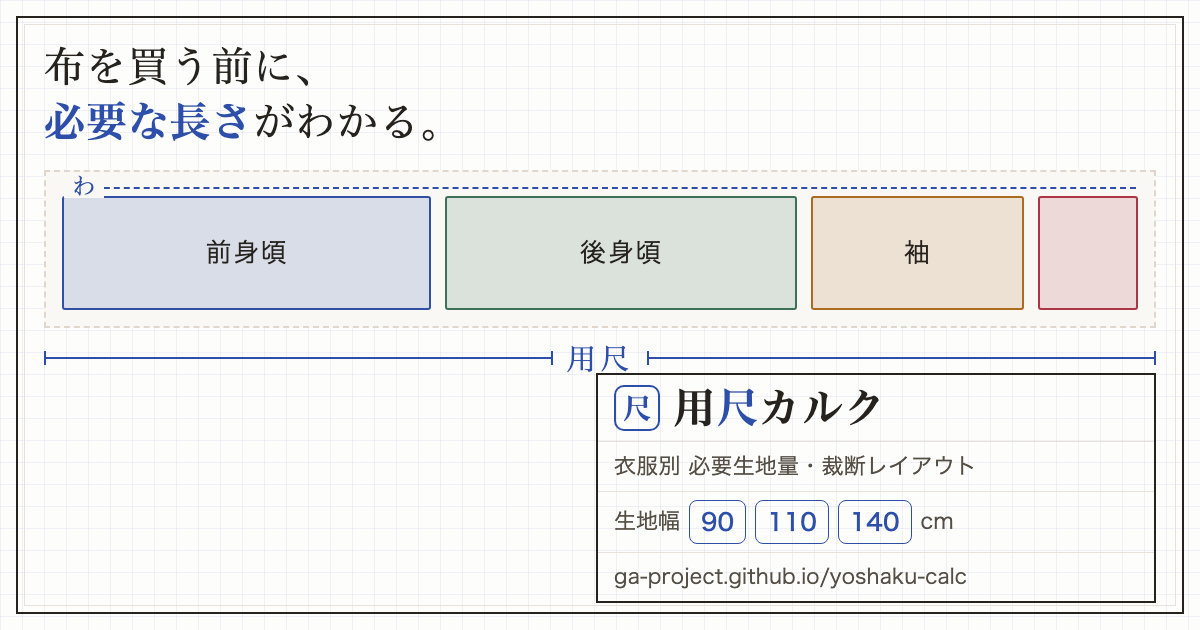
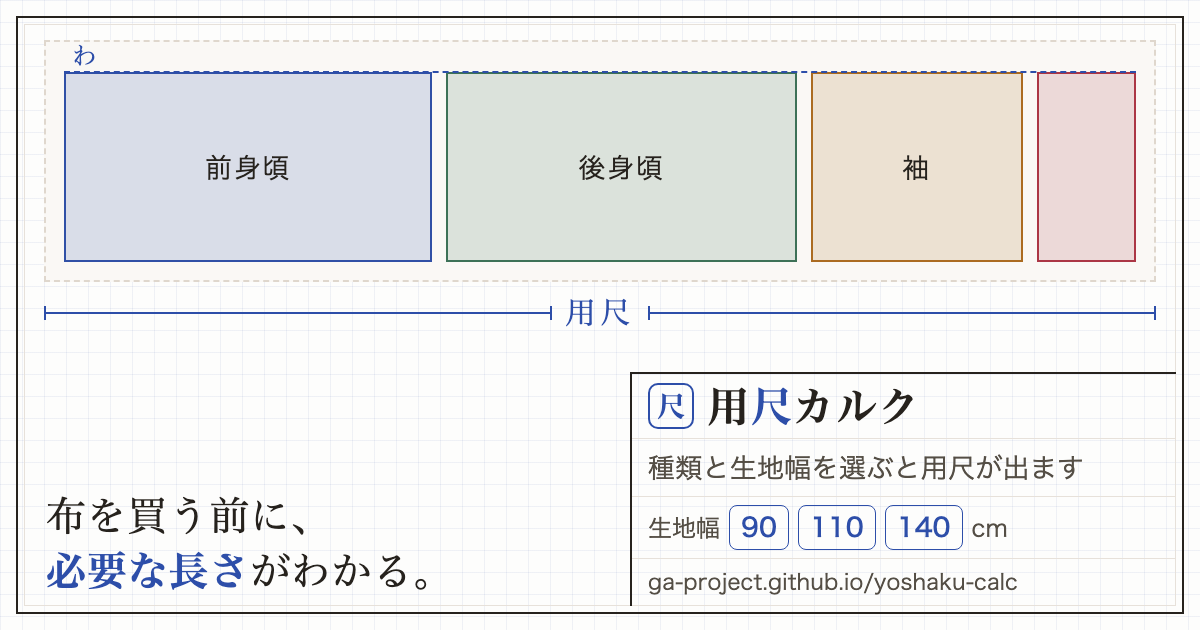
独立レビュー2巡目の指摘を反映（検査の取りこぼしと、表題欄の溢れ）
## 検査（PL 2巡目）
verify-og が画像3項目しか見ておらず、この増分が本来止めたい故障モード
——page 側で openGraph を書くと layout のものが丸ごと置き換わり、画像だけ
残して url / site_name / type が落ちる——を素通ししていた。og:site_name と
og:type の存在、og:url と canonical の一致を検査に足す。og:url は
Facebook / LinkedIn 側の正規化キーで、socialMeta() の url 引数は各ページが
手で渡すため、取り違えてもここ以外では気づけない。

変異2件で exit 1 になることを実測した。
- 画像だけ書いた新ページ → og:site_name / og:type / og:url を検出
- 早見表トップの url に shirt を渡す → canonical との食い違いを検出

404 の除外は、trailingSlash のため出力が out/404.html と out/404/index.html
の2つあり、片方しか除外できていなかった。除外したつもりで残った側が将来
落ちるので、除外をやめて 404 も検査対象に含める（layout から継承している）。

オリジンを app/site.ts から読むようにした。写しておくと独自ドメインへ移した
日にここだけ落ちる。package.json に check:og を足し、ローカルでも
ビルド＋検査を1コマンドで踏めるようにした。

## カード（デザイン 2巡目）
表題欄が図面枠の content box を 15px はみ出し、内枠罫と 2px で接触して
角が三重線になっていた。margin-top:auto が自由空間ゼロで効いておらず、
「左下の空き」も意図した描画領域ではなく縦溢れの副産物だった。

面の配分をやり直す。作図（反物）を上の field に据えて 242px に伸ばし、
注記（リード文）を左下へ、表題欄を内枠の右下隅に罫を共有してフラッシュで
納めた。製図面の表題欄は枠線を共有するのが作法で、20px/2px の中途半端な
離れ方がズレに見える原因だった。

- わ（折り山）がパーツ上辺から 10px 離れて二重罫に見えていたので接地させた
- 副題を 22px→27px に。漢字は欧文より大きい下限が要る（500px 表示で
  27px＝実効 11.3px。22px では「服」「量」「裁」の画が潰れる）
- 副題を名詞の羅列から動詞に変えた（「種類と生地幅を選ぶと用尺が出ます」）。
  画像内に「入力して結果が出る道具」を示す記号がゼロで、参照チャートや
  記事の OGP と区別がつかなかった

Changed region(s): [[0.0308, 0.0603, 0.9867, 0.9651], [0.0308, 0.8746, 0.3392, 0.9349], [0.0308, 0.7841, 0.2467, 0.8444]]

diff --git a/tools/og-source.html b/tools/og-source.html
@@ -55,38 +55,30 @@
 
   /* ── 図面枠（外周の二重枠） ── */
   .sheet{
-    position:absolute;inset:16px;border:2px solid var(--text);
-    display:flex;flex-direction:column;padding:22px 26px 24px;
+    position:absolute;inset:16px;border:2px solid var(--text);padding:22px 26px 24px;
   }
   .sheet::before{
     content:"";position:absolute;inset:6px;border:1px solid var(--border);pointer-events:none;
   }
 
-  /* ── 主張（図面の余白に書かれた注記のように） ── */
-  .lead{
-    font-family:var(--mincho);font-size:41px;line-height:1.34;letter-spacing:.02em;
-  }
-  .lead b{color:var(--accent);font-weight:600}
-
-  /* ── 反物（裁断レイアウト） ── */
+  /* ── 反物（裁断レイアウト）: 図面の field に据える ── */
   .bolt{
-    position:relative;flex:none;margin-top:20px;height:158px;background:var(--fabric);
+    position:relative;height:242px;background:var(--fabric);
     border:2px dashed var(--fabric-line); /* 裁ち線 */
-    padding:24px 16px 16px;display:flex;align-items:stretch;gap:14px;
+    padding:30px 18px 18px;display:flex;align-items:stretch;gap:14px;
   }
-  /* わ（折り山）= 二つ折りの山。製品の裁断図で唯一 accent が入る線。 */
+  /* わ（折り山）= 二つ折りの山。パーツの上辺に接する（製品の LayoutFigure と同じ）。 */
   .wa{
-    position:absolute;left:18px;right:18px;top:15px;border-top:2px dashed var(--accent);
+    position:absolute;left:18px;right:18px;top:29px;border-top:2px dashed var(--accent);
   }
   .wa span{
-    position:absolute;left:0;top:-15px;background:var(--fabric);padding:0 8px;
-    font-family:var(--mincho);font-size:24px;color:var(--accent);line-height:1;
+    position:absolute;left:0;top:-30px;background:var(--fabric);padding:0 8px;
+    font-family:var(--mincho);font-size:25px;color:var(--accent);line-height:1;
   }
   .piece{
     border:2.5px solid var(--c);background:color-mix(in srgb,var(--c) 16%,transparent);
-    border-radius:3px;display:grid;place-items:center;
     /* ラベルは中立色。色→意味は枠線と塗りが担う（製品の LayoutFigure と同じ設計） */
-    font-size:26px;color:var(--text);letter-spacing:.06em;
+    display:grid;place-items:center;font-size:27px;color:var(--text);letter-spacing:.06em;
   }
   .p-front{--c:var(--piece-front);flex:2.1}
   .p-back{--c:var(--piece-back);flex:2}
@@ -101,13 +93,23 @@
   }
   .dim .bar::before{left:0}
   .dim .bar::after{right:0}
-  .dim .txt{font-family:var(--mincho);font-size:29px;letter-spacing:.14em;line-height:1}
+  .dim .txt{font-family:var(--mincho);font-size:30px;letter-spacing:.14em;line-height:1}
 
-  /* ── 表題欄（タイトルブロック・右下） ── */
-  .block{margin-top:auto;margin-left:auto;width:560px;border:2px solid var(--text)}
+  /* ── 注記（図面の余白に書く一言）: 左下に置き、表題欄と同じ底辺で揃える ── */
+  .note{
+    position:absolute;left:28px;bottom:14px;width:498px;
+    font-family:var(--mincho);font-size:40px;line-height:1.36;letter-spacing:.02em;
+  }
+  .note b{color:var(--accent);font-weight:600}
+
+  /* ── 表題欄（タイトルブロック）: 内枠の右下隅に罫を共有して納める ── */
+  .block{
+    position:absolute;right:6px;bottom:6px;width:546px;
+    border-left:2px solid var(--text);border-top:2px solid var(--text);
+  }
   .block .row{display:flex;align-items:center;border-bottom:1px solid var(--border)}
   .block .row:last-child{border-bottom:0}
-  .brand{gap:14px;padding:10px 16px}
+  .brand{gap:14px;padding:9px 16px}
   .seal{
     width:46px;height:46px;flex:none;border:2px solid var(--accent);border-radius:10px;
     display:grid;place-items:center;font-family:var(--mincho);font-size:28px;
@@ -115,17 +117,17 @@
   }
   .brand h1{font-family:var(--mincho);font-size:41px;font-weight:600;letter-spacing:.04em;line-height:1}
   .brand h1 b{color:var(--accent);font-weight:600}
-  .sub{padding:8px 16px;font-size:22px;color:var(--text-soft);letter-spacing:.01em}
-  .widths{padding:8px 16px;gap:9px;font-size:22px;color:var(--text-soft)}
+  /* 副題は「指定すると出る」を動詞で言う＝計算する道具だと絵だけで伝わるように。
+     漢字は欧文より大きい下限が要る（500px 表示で 27px＝実効 11.3px）。 */
+  .sub{padding:8px 16px;font-size:27px;color:var(--text-soft);letter-spacing:.01em}
+  .widths{padding:8px 16px;gap:9px;font-size:24px;color:var(--text-soft)}
   .chip{
     border:1.5px solid var(--accent);color:var(--accent);border-radius:8px;
-    padding:3px 11px;font-size:24px;font-weight:600;
+    padding:2px 11px;font-size:26px;font-weight:600;
   }
-  .url{padding:8px 16px;font-size:21px;color:var(--text-soft);letter-spacing:.01em}
+  .url{padding:7px 16px;font-size:22px;color:var(--text-soft);letter-spacing:.01em}
 </style></head><body>
   <div class="sheet">
-
-    <div class="lead">布を買う前に、<br><b>必要な長さ</b>がわかる。</div>
 
     <div class="bolt">
       <div class="wa"><span>わ</span></div>
@@ -137,12 +139,14 @@
 
     <div class="dim"><span class="bar"></span><span class="txt">用尺</span><span class="bar"></span></div>
 
+    <div class="note">布を買う前に、<br><b>必要な長さ</b>がわかる。</div>
+
     <div class="block">
       <div class="row brand">
         <div class="seal">尺</div>
         <h1>用<b>尺</b>カルク</h1>
       </div>
-      <div class="row sub">衣服別 必要生地量・裁断レイアウト</div>
+      <div class="row sub">種類と生地幅を選ぶと用尺が出ます</div>
       <div class="row widths">生地幅 <span class="chip">90</span><span class="chip">110</span><span class="chip">140</span> cm</div>
       <div class="row url">ga-project.github.io/yoshaku-calc</div>
     </div>
